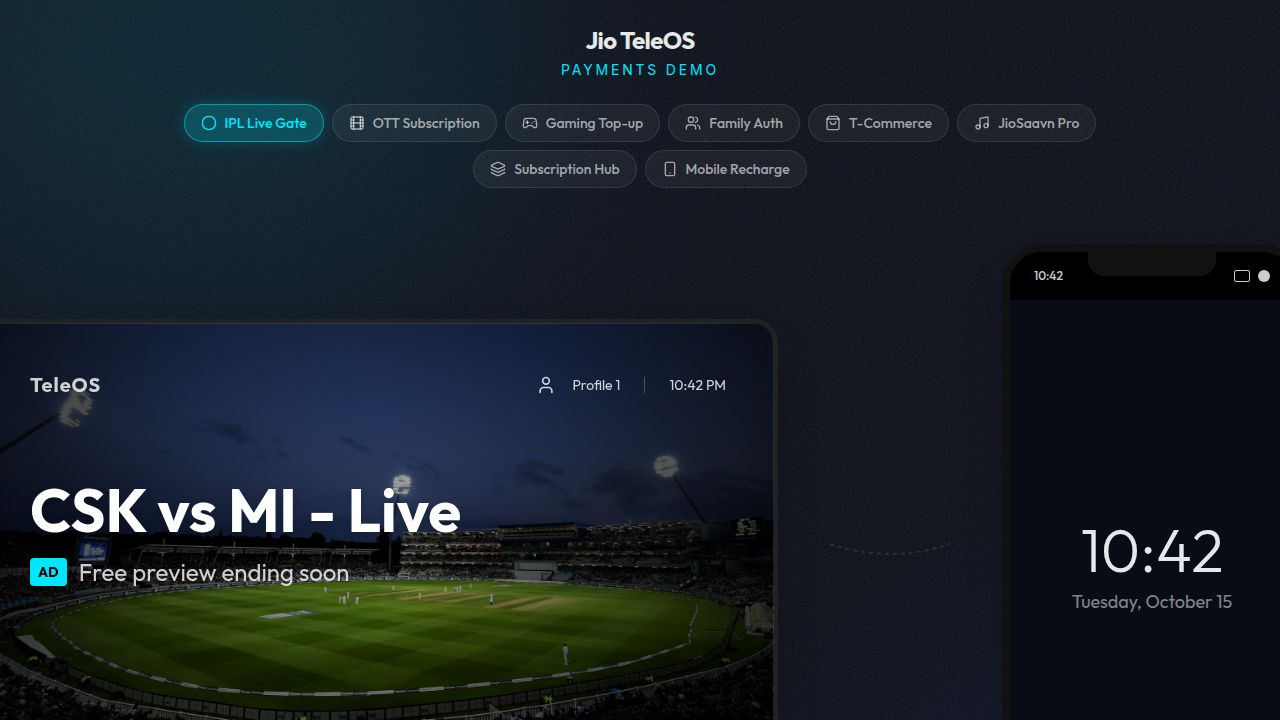
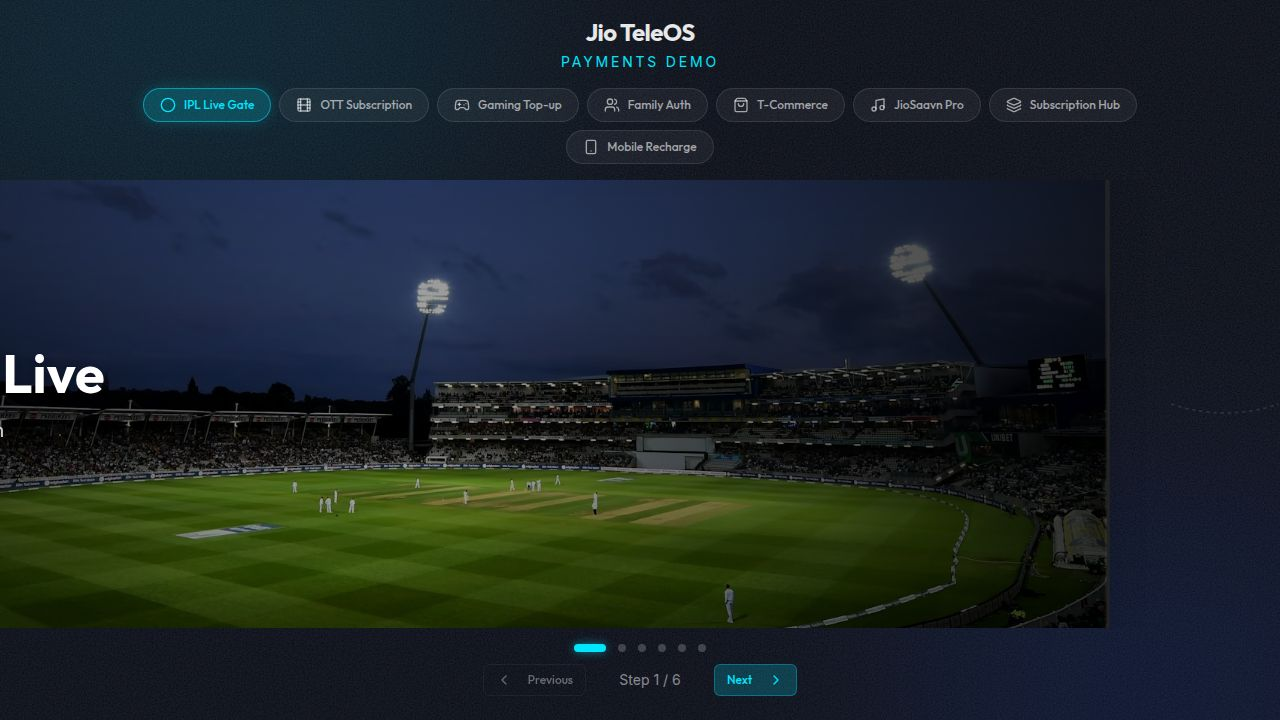
Increase the size of the TV panel and improve overall layout adjustments
Adjusted TV frame dimensions, increased font sizes and spacing within the TV frame, and refined the main stage container for better responsiveness and visibility of elements across various screen sizes.

Replit-Commit-Author: Agent
Replit-Commit-Session-Id: 7402c065-c3f7-4e10-8e6a-4e94355f1809
Replit-Commit-Checkpoint-Type: full_checkpoint
Replit-Commit-Event-Id: 885165c3-eccf-4253-aed6-a62d4d553cc3
Replit-Commit-Screenshot-Url: https://storage.googleapis.com/screenshot-production-us-central1/e1c7f752-e185-474a-ae9d-06cbc655934f/7402c065-c3f7-4e10-8e6a-4e94355f1809/pUNlXeF
Replit-Helium-Checkpoint-Created: true

diff --git a/client/src/components/TVFrame.tsx b/client/src/components/TVFrame.tsx
@@ -46,17 +46,17 @@ export default function TVFrame({ step, scenarioTitle, onClick }: TVFrameProps) 
       <div className="relative z-10 w-full h-full p-12 flex flex-col justify-between">
         
         {/* Top Bar */}
-        <header className="flex justify-between items-center opacity-80">
-          <div className="text-xl font-bold tracking-wider text-white">TeleOS</div>
-          <div className="flex gap-4 items-center text-sm">
-            <User className="w-5 h-5" /> Profile 1
-            <div className="w-px h-4 bg-white/30 mx-2" />
+        <header className="flex justify-between items-center opacity-80 pt-4 px-8">
+          <div className="text-3xl font-bold tracking-wider text-white">TeleOS</div>
+          <div className="flex gap-4 items-center text-xl">
+            <User className="w-8 h-8" /> Profile 1
+            <div className="w-px h-6 bg-white/30 mx-2" />
             10:42 PM
           </div>
         </header>
 
         {/* Main Content Area */}
-        <main className="flex-1 flex items-center justify-center">
+        <main className="flex-1 flex items-center justify-center p-8 mt-16 pb-16">
           <AnimatePresence mode="wait">
             
             {/* CONTENT PLAYING STATE */}
@@ -280,28 +280,32 @@ export default function TVFrame({ step, scenarioTitle, onClick }: TVFrameProps) 
                 key="recharge"
                 initial={{ opacity: 0, y: 30 }}
                 animate={{ opacity: 1, y: 0 }}
-                className="w-full max-w-4xl flex flex-col gap-8 items-center text-center"
+                className="w-full max-w-5xl flex flex-col gap-10 items-center text-center mt-8"
                >
-                 <h2 className="text-4xl font-bold text-white">{tvContent?.title}</h2>
-                 <p className="text-xl text-white/60 mb-4">{tvContent?.subtitle}</p>
+                 <div className="space-y-4">
+                   <h2 className="text-5xl font-bold text-white tracking-wide">{tvContent?.title}</h2>
+                   <p className="text-2xl text-white/60">{tvContent?.subtitle}</p>
+                 </div>
                  
-                 <div className="flex gap-6">
+                 <div className="flex gap-6 mt-4">
                    {[
                      { name: 'Mom', num: '+91 98765 43210', active: true },
                      { name: 'Dad', num: '+91 87654 32109', active: false },
                      { name: 'Self', num: '+91 76543 21098', active: false }
                    ].map((contact, i) => (
-                     <div key={i} className={`p-8 rounded-2xl border flex flex-col items-center gap-4 cursor-pointer transition-all ${
+                     <div key={i} className={`p-10 w-[280px] rounded-3xl flex flex-col items-center gap-6 cursor-pointer transition-all ${
                        contact.active 
-                        ? 'bg-primary/20 border-primary scale-105' 
-                        : 'glass-panel border-white/10 hover:bg-white/10'
+                        ? 'bg-gradient-to-b from-primary/20 to-transparent border-2 border-primary scale-105 shadow-[0_0_30px_rgba(0,230,255,0.15)]' 
+                        : 'bg-[#181C2A] border-2 border-transparent hover:bg-[#1E2335]'
                      }`}>
-                       <div className="w-16 h-16 rounded-full bg-white/10 flex items-center justify-center text-2xl font-bold">
+                       <div className={`w-20 h-20 rounded-full flex items-center justify-center text-3xl font-bold text-white ${
+                         contact.active ? 'bg-white/20' : 'bg-[#2A2E3D]'
+                       }`}>
                          {contact.name[0]}
                        </div>
-                       <div>
-                         <div className="text-xl font-medium text-white">{contact.name}</div>
-                         <div className="text-white/50 font-mono mt-1">{contact.num}</div>
+                       <div className="space-y-2">
+                         <div className="text-2xl font-semibold text-white">{contact.name}</div>
+                         <div className="text-white/50 text-lg font-mono">{contact.num}</div>
                        </div>
                      </div>
                    ))}

diff --git a/client/src/pages/Home.tsx b/client/src/pages/Home.tsx
@@ -78,11 +78,11 @@ export default function Home() {
 
         {/* Main Stage */}
         <main className="flex-1 relative w-full min-h-0 overflow-hidden perspective-[1000px]">
-          <div className="absolute inset-0 flex items-center justify-center p-2 sm:p-4">
-            <div className="flex flex-col xl:flex-row items-center gap-4 xl:gap-12 w-full justify-center transform-style-3d scale-[0.4] sm:scale-[0.5] md:scale-[0.6] lg:scale-[0.7] xl:scale-[0.8] 2xl:scale-[0.9] origin-center">
+          <div className="absolute inset-0 flex items-center justify-center p-4 lg:p-8">
+            <div className="flex flex-col xl:flex-row items-center gap-6 xl:gap-8 2xl:gap-12 w-full max-w-[2400px] h-full justify-center">
               
               {/* TV Mockup */}
-              <div className="relative z-10 w-full max-w-[800px] aspect-video shrink-0">
+              <div className="relative z-10 w-full md:w-auto md:h-[60vh] lg:h-[65vh] xl:h-[70vh] 2xl:h-[75vh] aspect-video shrink-0 max-w-full">
                 <TVFrame 
                   step={currentStep} 
                   scenarioTitle={activeScenario.title}
@@ -91,12 +91,12 @@ export default function Home() {
               </div>
 
               {/* Connection Arc */}
-              <div className="relative z-0 w-full xl:w-32 h-16 xl:h-auto shrink-0 flex justify-center items-center rotate-90 xl:rotate-0">
+              <div className="relative z-0 w-12 xl:w-16 2xl:w-20 shrink-0 flex justify-center items-center rotate-90 xl:rotate-0 hidden md:flex">
                  <ConnectionArc active={currentStep.handoffActive || false} />
               </div>
 
               {/* Phone Mockup */}
-              <div className="relative z-10 w-[280px] sm:w-[300px] h-[560px] sm:h-[600px] shrink-0">
+              <div className="relative z-10 w-[260px] h-[520px] sm:w-[280px] sm:h-[560px] xl:w-[300px] xl:h-[600px] 2xl:w-[320px] 2xl:h-[640px] shrink-0">
                 <PhoneFrame step={currentStep} />
               </div>
 
